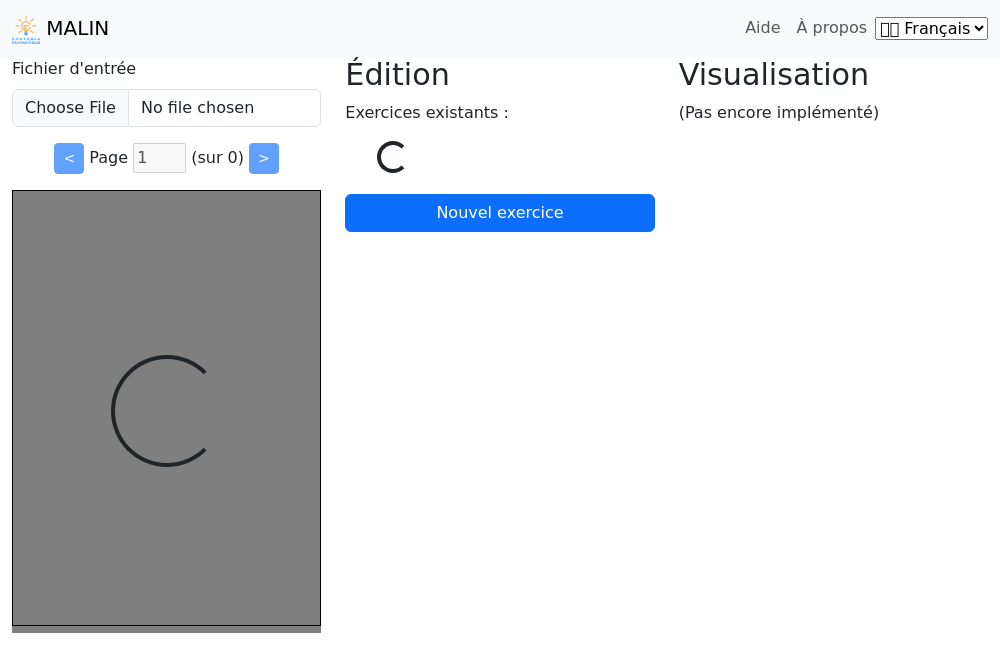
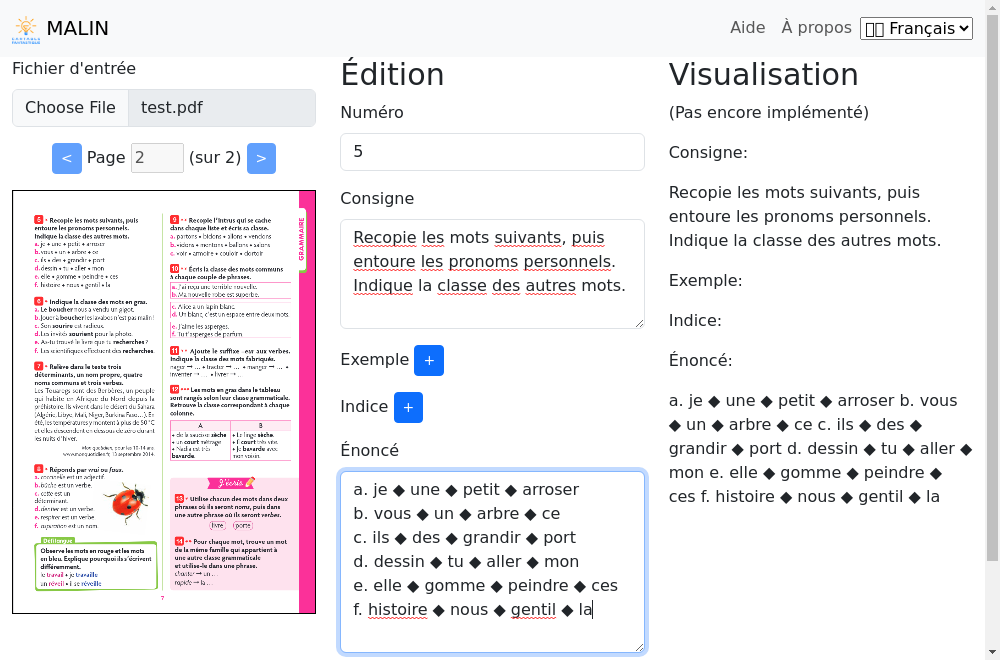
Generate a snapshot corresponding to the active "three columns" state

diff --git a/frontend/cypress/e2e/gabby.cy.js b/frontend/cypress/e2e/gabby.cy.js
@@ -2,6 +2,44 @@ describe('Gabby', () => {
   it('responds to the root url', () => {
     cy.visit('/')
     cy.contains('nav', 'MALIN')
-    cy.screenshot('three-columns')
+  })
+
+  it('performs extraction', () => {
+    cy.visit('/')
+
+    cy.get('input[type=file]').selectFile('../pdf-examples/test.pdf')
+    cy.waitUntilLoaded()
+
+    cy.get('input[type=file]').should('have.value', 'C:\\fakepath\\test.pdf').should('be.enabled')
+    cy.get('button').contains('<').should('be.disabled')
+    cy.get('input.number-no-spin').should('have.value', '1').should('be.enabled')
+    cy.get('button').contains('>').should('be.enabled')
+
+    cy.get('button').contains('>').click()
+    cy.waitUntilLoaded()
+
+    cy.get('input[type=file]').should('have.value', 'C:\\fakepath\\test.pdf').should('be.enabled')
+    cy.get('button').contains('<').should('be.enabled')
+    cy.get('input.number-no-spin').should('have.value', '2').should('be.enabled')
+    cy.get('button').contains('>').should('be.disabled')
+
+    cy.get('button').contains('Nouvel exercice').click()
+
+    cy.get('input[type=file]').should('have.value', 'C:\\fakepath\\test.pdf').should('be.disabled')
+    cy.get('button').contains('<').should('be.disabled')
+    cy.get('input.number-no-spin').should('have.value', '2').should('be.disabled')
+    cy.get('button').contains('>').should('be.disabled')
+    cy.get('button').contains('Annuler').should('be.enabled')
+    cy.get('button').contains('Enregistrer').should('be.disabled')
+
+    cy.get('label').contains('Numéro').next().type(5)
+
+    cy.get('button').contains('Enregistrer').should('be.enabled')
+
+    // @todo Simulate clicks in the PdfPicker instead of typing in the form
+    cy.get('label').contains('Consigne').next().type('Recopie les mots suivants, puis\nentoure les pronoms personnels.\nIndique la classe des autres mots.')
+    cy.get('label').contains('Énoncé').next().type('a. je ◆ une ◆ petit ◆ arroser\nb. vous ◆ un ◆ arbre ◆ ce\nc. ils ◆ des ◆ grandir ◆ port\nd. dessin ◆ tu ◆ aller ◆ mon\ne. elle ◆ gomme ◆ peindre ◆ ces\nf. histoire ◆ nous ◆ gentil ◆ la')
+
+    cy.screenshot('three-columns', { capture: 'viewport' })
   })
 })

diff --git a/frontend/cypress/support/commands.js b/frontend/cypress/support/commands.js
@@ -1,0 +1,5 @@
+import 'cypress-wait-until'
+
+Cypress.Commands.add('waitUntilLoaded', () => {
+  cy.waitUntil(() => Cypress.$('.spinner-border').length == 0)
+})

diff --git a/frontend/cypress/support/e2e.js b/frontend/cypress/support/e2e.js
@@ -1,0 +1,1 @@
+import './commands'

diff --git a/frontend/src/content/fr/help.md b/frontend/src/content/fr/help.md
@@ -1,6 +1,6 @@
 # Documentation utilisateur
 
-## Grands principes d'utilisation
+## Grands principes
 
 La vue principale est divisée en trois colonnes :
 
